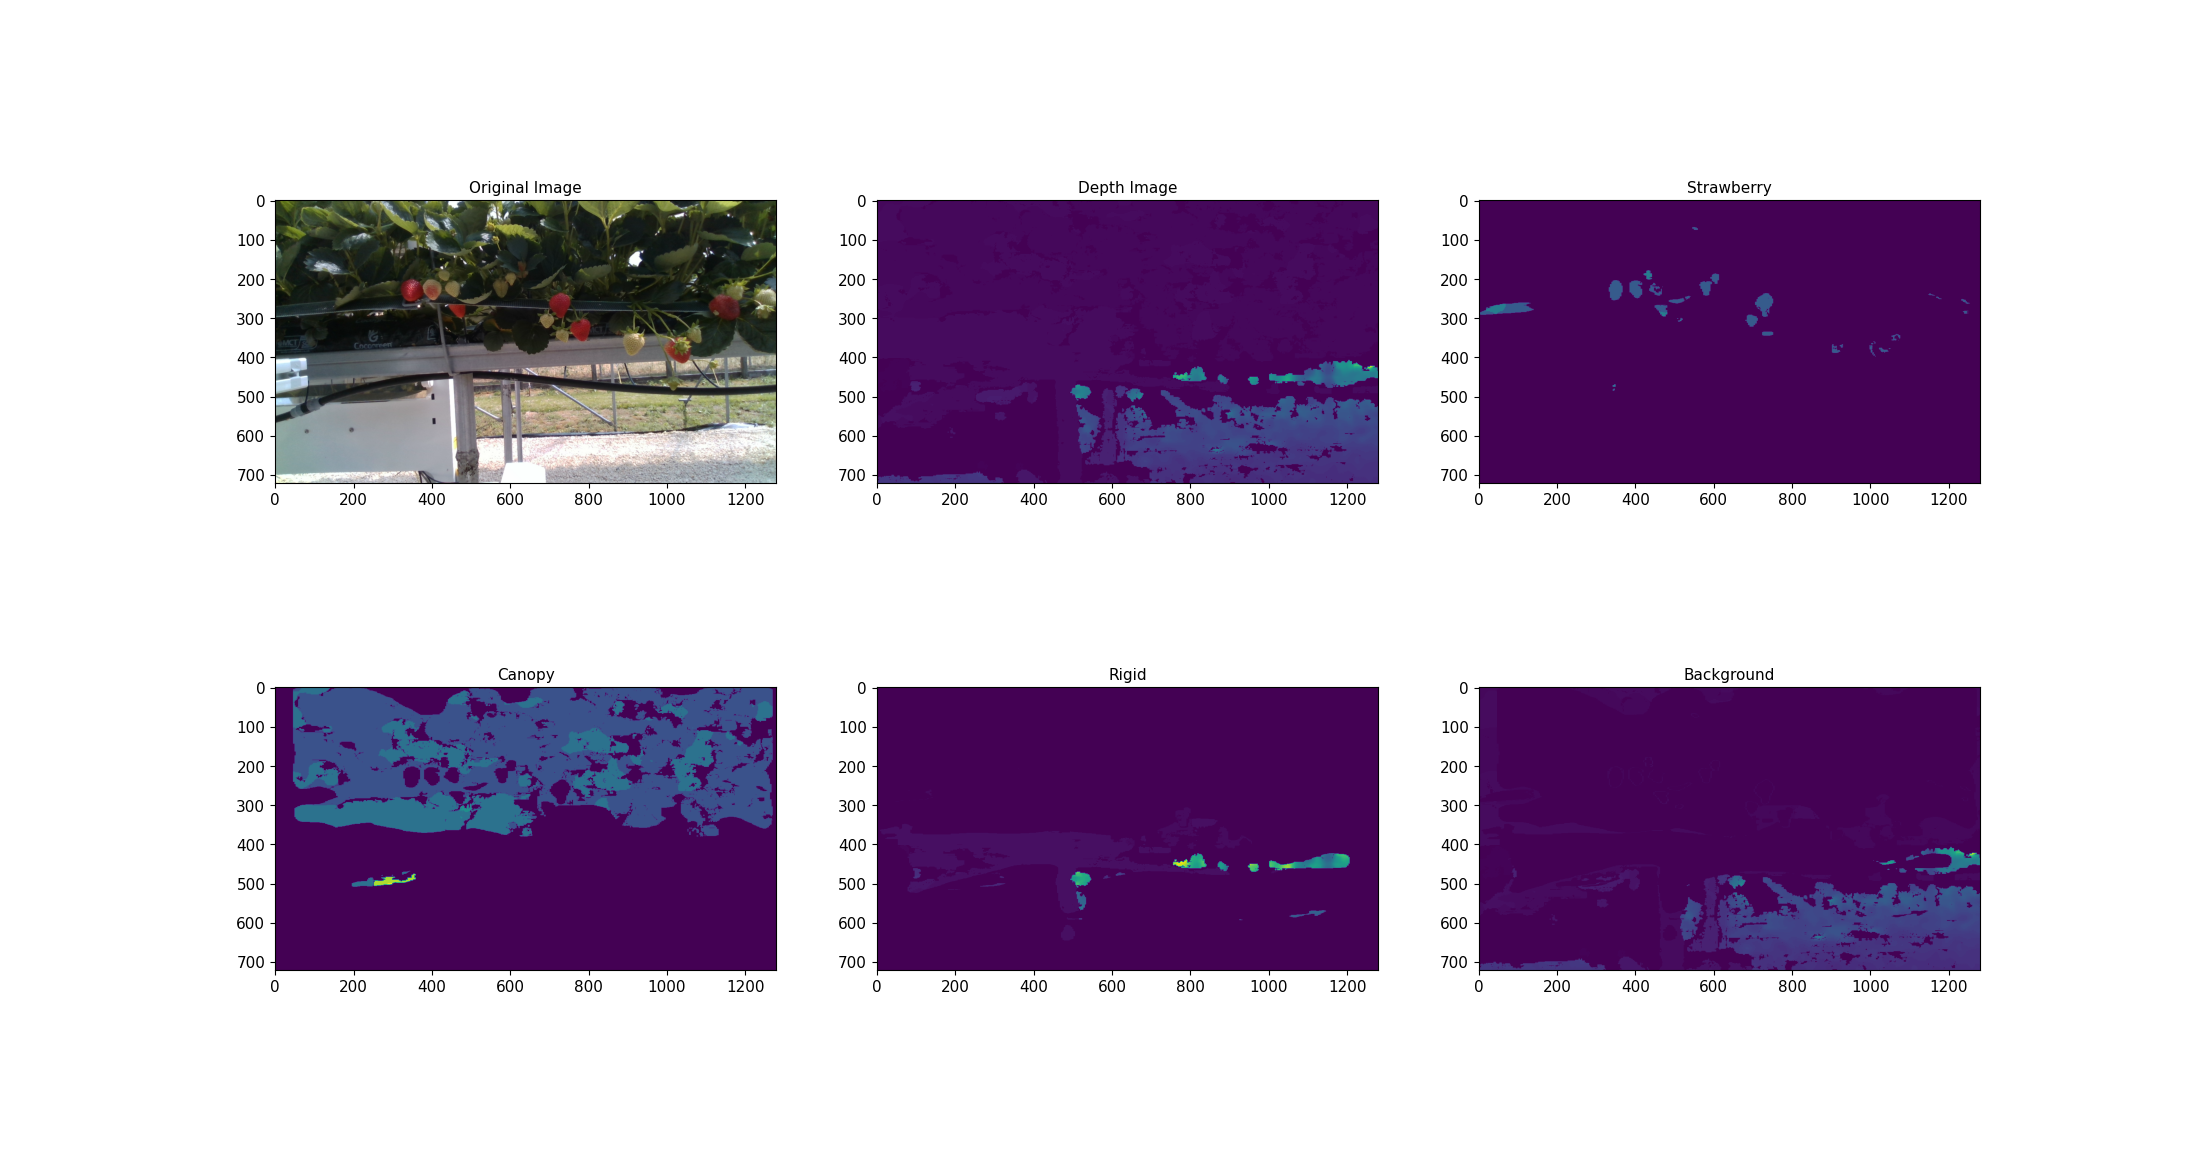
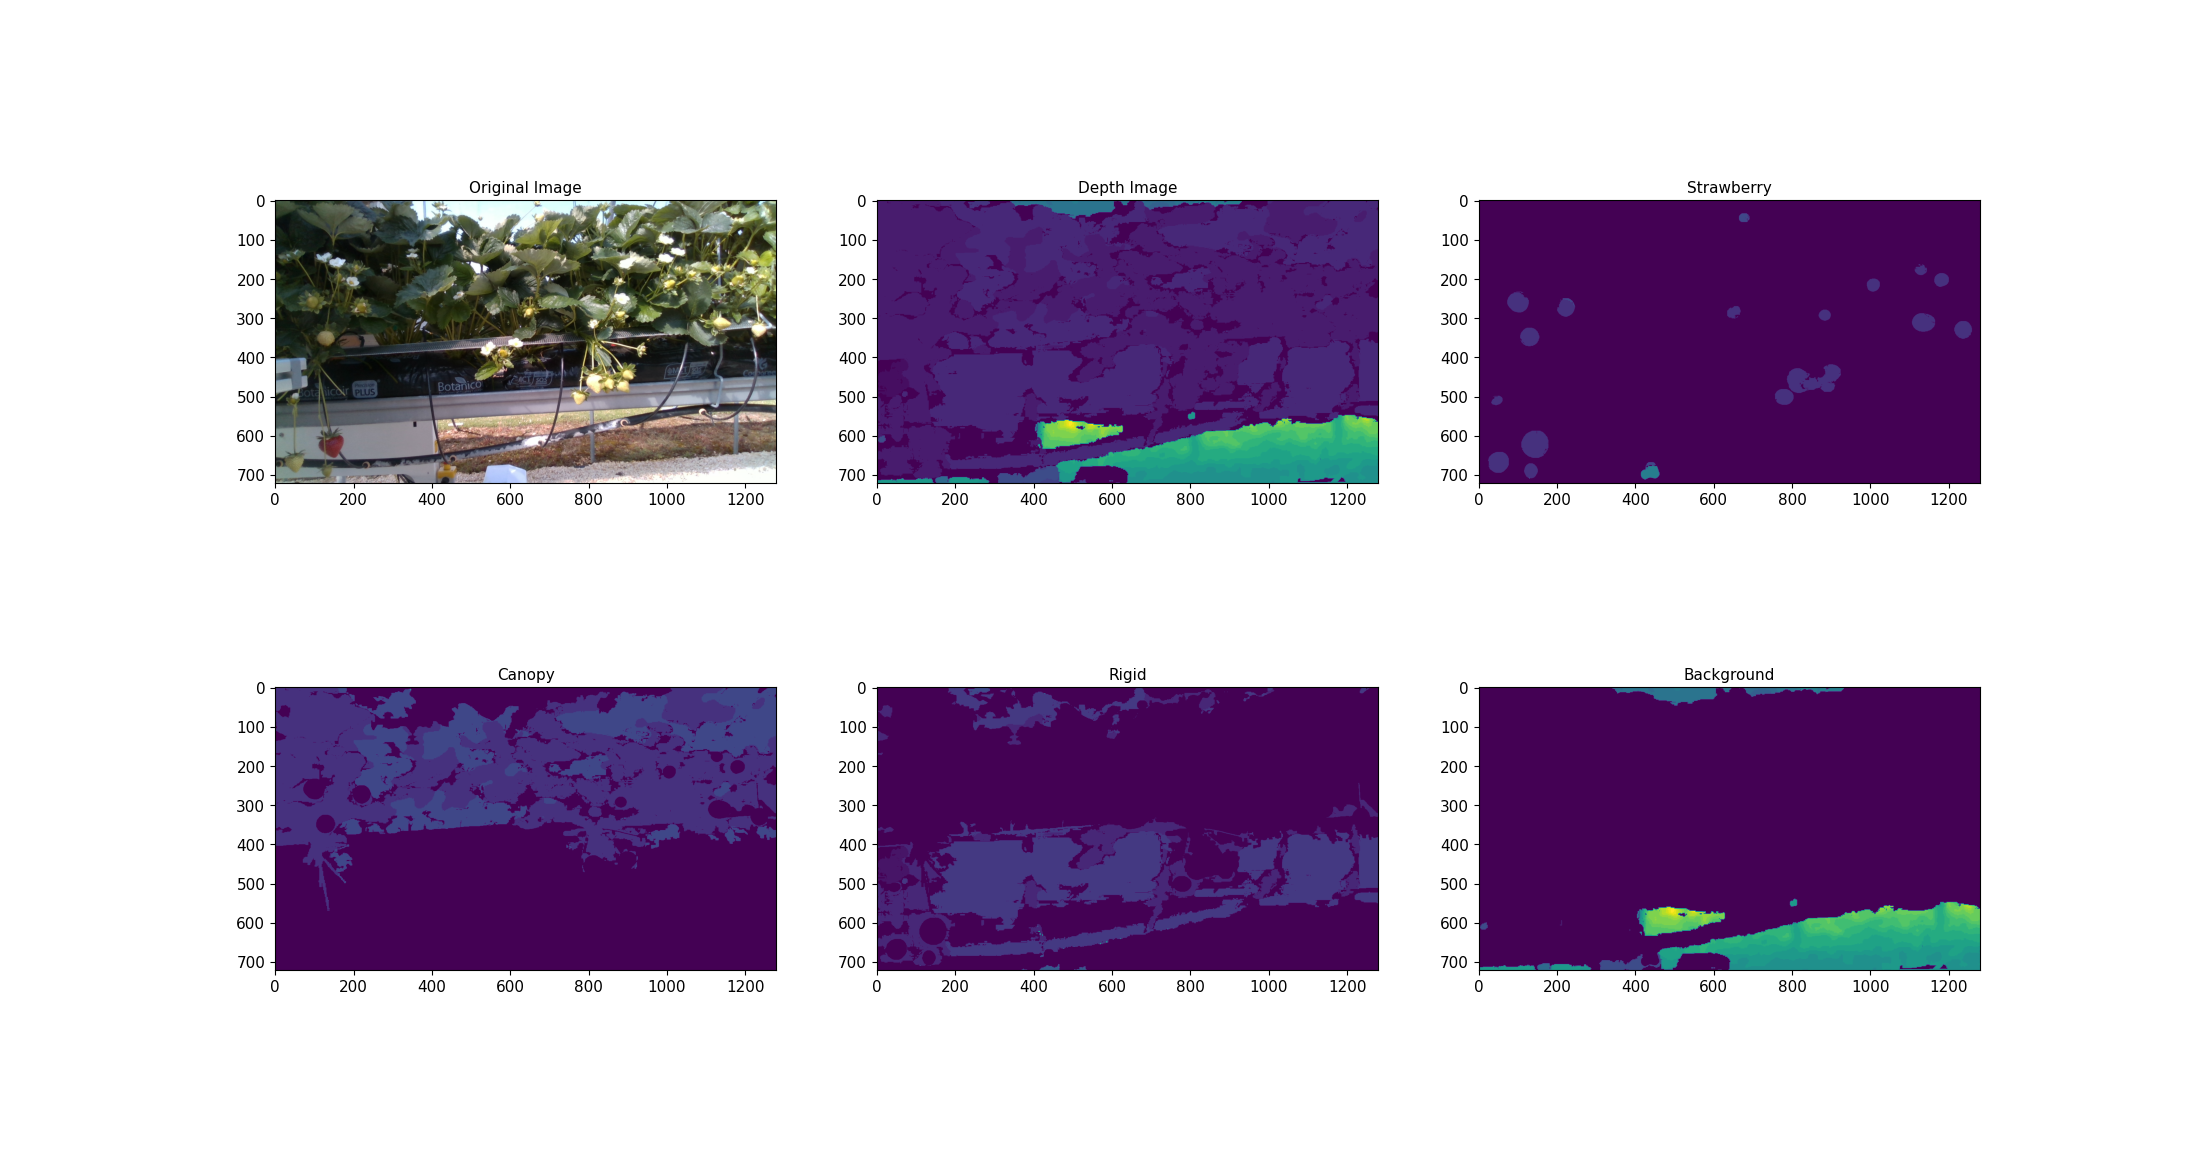
Add files via upload
update:
strawberry mask: the only mask predicted by model
background mask: calculated from depth image
canopy mask: green seeking from hsv
rigid mask: left over regions

file updates:
output_figure.png
metadata.pkl, as num of classes changed
fp_ss_model.pth for strawberry only

diff --git a/masks_predictor.py b/masks_predictor.py
@@ -2,7 +2,6 @@
 Started by: Usman Zahidi (uz) {16/02/22}
 
 """
-
 #general imports
 import os, sys, numpy as np, cv2,pickle, logging
 from enum                        import Enum,unique
@@ -20,15 +19,17 @@ from fastpick_visualizer         import FastPickVisualizer,ColorMode
 logging.basicConfig(level=logging.INFO, format='%(levelname)s: %(message)s')
 
 
+from scipy import ndimage
+
+
 class MasksPredictor:
 
-    def __init__(self, model_file,config_file,num_classes=3, scale=1.0, instance_mode=ColorMode.SEGMENTATION):
+    def __init__(self, model_file,config_file,num_classes=1, scale=1.0, instance_mode=ColorMode.SEGMENTATION):
 
         self.instance_mode=instance_mode
         self.scale=scale
         self.metadata=self.get_metadata()
-
-        cfg=self.init_config(model_file, config_file, num_classes)
+        cfg = self.init_config(model_file, config_file, num_classes)
 
         try:
             self.predictor=DefaultPredictor(cfg)
@@ -37,8 +38,7 @@ class MasksPredictor:
             logging.error(message)
             sys.exit(1)
 
-    def init_config(self, model_file, config_file, num_classes=3):
-
+    def init_config(self, model_file, config_file, num_classes=1):
         cfg = get_cfg()
         try:
             cfg.merge_from_file(model_zoo.get_config_file(config_file))
@@ -48,7 +48,7 @@ class MasksPredictor:
             sys.exit(1)
 
         cfg.MODEL.WEIGHTS = os.path.join(model_file)
-        cfg.MODEL.ROI_HEADS.NUM_CLASSES = num_classes  # 1.strawberry,2.canopy, 3.rigid
+        cfg.MODEL.ROI_HEADS.NUM_CLASSES = num_classes  # 1.strawberry (only strawberry coming from model)
         return cfg
 
     def get_metadata(self):
@@ -62,29 +62,17 @@ class MasksPredictor:
             logging.error(message)
             sys.exit(1)
 
-
         data = pickle.load(file)
         file.close()
         return data
 
     def get_predictions(self,rgbd_image,class_list):
 
-        # models trained for downsampled images, we first downsample them then predict masks and upsample binary mask
-
         if (bool(class_list)==False):
             logging.error('class list empty')
             sys.exit(1)
 
-        image_dims=rgbd_image.shape
-        up_dims = [int(image_dims[0]), int(image_dims[1])]
-        if (up_dims[1] != 1280 or up_dims[0] != 720):
-            message='Image resolution not supported by the model, try (1280x720)'
-            logging.error(message)
-            sys.exit(1)
-        down_dims = [int(image_dims[0]/2),int(image_dims[1]/2)]
-
         depth_image = rgbd_image[:, :, 3]
-        rgbd_image=self.downsample_image(rgbd_image,down_dims)
         rgb_image=rgbd_image[:, :, :3]
 
         outputs = self.predictor(rgb_image)
@@ -95,72 +83,93 @@ class MasksPredictor:
                        instance_mode=self.instance_mode
                        )
         predictions = v.draw_instance_predictions(outputs["instances"].to("cpu"))
-        pred_masks = predictions.get_image()[:, :, ::-1]
-        return self.get_masks(pred_masks, depth_image,class_list, up_dims)
+        berry_mask = predictions.get_image()[:, :, ::-1]
+        temp_mask = np.bitwise_and(berry_mask[:,:,0]==255,berry_mask[:,:,1]==255)
+        berry_mask =np.bitwise_and(temp_mask==1,berry_mask[:,:,2]==0)
+        not_berry=np.bitwise_not(berry_mask)
+
+        canopy_mask=self.get_canopy(rgb_image)
+        canopy_mask = self.smooth_seg(canopy_mask,ClassNames.CANOPY)
+        canopy_mask =np.bitwise_and(canopy_mask,not_berry)
+        bg_mask = self.get_background(depth_image)
+        bg_mask = self.smooth_seg(bg_mask,ClassNames.BACKGROUND)
 
 
-    def get_masks(self,fg_masks, depth_image, class_list, up_dims):
+        temp_mask=np.bitwise_and(canopy_mask,bg_mask)
+        temp_mask = np.bitwise_not(temp_mask)
+        bg_mask = np.bitwise_and(temp_mask, bg_mask)
+        bg_mask = np.bitwise_and(bg_mask, not_berry)
+
+        rigid_mask=np.bitwise_not(np.bitwise_or(canopy_mask,bg_mask))
+        rigid_mask = np.bitwise_and(rigid_mask, not_berry)
+
+        all_mask=np.bitwise_or(rigid_mask, bg_mask)
+        all_mask = np.bitwise_or(all_mask, berry_mask)
+        all_mask = np.bitwise_or(all_mask, canopy_mask)
+        unseg_mask=np.bitwise_not(all_mask)
+        bg_mask = np.bitwise_or(unseg_mask, bg_mask)
+        fg_masks = (np.dstack((berry_mask, canopy_mask, rigid_mask,bg_mask)) * 1)
+        return self.get_masks(fg_masks, depth_image,class_list)
+
+    def get_background(self,depth_image):
+
+        depth_zero = (depth_image == 0)*1
+        depth_zero = depth_zero * np.amax(depth_image)
+        depth_image = depth_image + depth_zero
+        bg_mask = depth_image > 5
+        return bg_mask
+
+
+
+
+    def get_canopy(self,rgb_image):
+
+        I = np.asarray(cv2.cvtColor(rgb_image, cv2.COLOR_RGB2HSV))
+        red_range   = [40,122]
+        green_range = [21,223]
+        blue_range  = [0,223]
+
+        canopy_mask=(I[:,:, 0] >= red_range[0] ) & (I[:,:, 0] <= red_range[1]) & \
+        (I[:,:, 1] >= green_range[0] ) & (I[:,:, 1] <= green_range[1]) & \
+        (I[:,:, 2] >= blue_range[0] ) & (I[:,:, 2] <= blue_range[1])
+
+
+        return canopy_mask
+
+    def smooth_seg(self,input_mask,class_name):
+        h, w = input_mask.shape[:2]
+        flood_mask = np.zeros((h + 2, w + 2), np.uint8)
+
+        input_mask=input_mask*255
+        mask=input_mask.astype('uint8')
+        kernel = np.ones((5, 5), np.uint8)
+        mask = cv2.erode(mask, kernel, iterations=1)
+        mask = cv2.dilate(mask, kernel, iterations=1)
+        if class_name==ClassNames.CANOPY:
+            cv2.floodFill(mask, flood_mask, (0, 0), 255)
+            flood_mask=flood_mask[:-2,:-2]
+        else:
+            flood_mask=mask
+        flood_mask=ndimage.binary_fill_holes(flood_mask,structure=np.ones((5,5)))
+        return flood_mask
+
+    def get_masks(self,fg_masks, depth_image, class_list):
 
         # input three foreground class' masks and calculate leftover as background mask
         # then output requested depth masks as per class_list order
 
-        # fetch yellow mask (Strawberry)
-        yellow = np.bitwise_and(fg_masks[:, :, 1] == 255, fg_masks[:, :, 2] == 255)
-        yellow = np.bitwise_and(yellow == True, fg_masks[:, :, 0] == 0)
-
-        #fetch green mask   (Canopy)
-        green = np.bitwise_and(fg_masks[:, :, 0] == 0, fg_masks[:, :, 2] == 0)
-        green = np.bitwise_and(green == True, fg_masks[:, :, 1] == 255)
-
-        # fetch red mask (Rigid Struct.)
-        red = np.bitwise_and(fg_masks[:, :, 0] == 0, fg_masks[:, :, 1] == 0)
-        red = np.bitwise_and(red == True, fg_masks[:, :, 2] == 255)
-
-        # create blue (Background)
-        mask = np.bitwise_or(red, green)
-        mask = np.bitwise_or(mask, yellow)
-        blue = np.bitwise_not(mask)
-
-
-        img = np.zeros(fg_masks.shape)
-        img[:, :, 0] = 255
-        blue_image = (np.dstack((blue, blue, blue)) * 1)
-        img = np.multiply(img, blue_image)
-
-        mask_img          = fg_masks
-        mask_img[:, :, 0] = mask
-        mask_img[:, :, 1] = mask
-        mask_img[:, :, 2] = mask
-
-        mask_img[:, :, 0] = img[:, :, 0]
-        mask_img[:, :, 1] = img[:, :, 1]
-        mask_img[:, :, 2] = img[:, :, 2]
-
-        #upsample masks
-        yellow = self.upsample_masks(yellow, up_dims)
-        green  = self.upsample_masks(green, up_dims)
-        red    = self.upsample_masks(red, up_dims)
-        blue   = self.upsample_masks(blue, up_dims)
 
         depth_masks=list()
         for classes in class_list:
             if   classes==ClassNames.STRAWBERRY:
-                depth_masks.append(yellow*depth_image)
+                depth_masks.append(fg_masks[:,:,0]*depth_image)
             elif classes == ClassNames.CANOPY:
-                depth_masks.append(green*depth_image)
+                depth_masks.append(fg_masks[:,:,1]*depth_image)
             elif classes == ClassNames.RIGID_STRUCT:
-                depth_masks.append(red*depth_image)
+                depth_masks.append(fg_masks[:,:,2]*depth_image)
             elif classes == ClassNames.BACKGROUND:
-                depth_masks.append(blue*depth_image)
+                depth_masks.append(fg_masks[:,:,3]*depth_image)
         return (np.dstack(depth_masks))
-
-
-    def downsample_image(self,rgbd_image,dims):
-        return cv2.resize(rgbd_image, dsize=(dims[0],dims[1]), interpolation=cv2.INTER_LINEAR)
-
-
-    def upsample_masks(self,binary_mask,dims):
-        return resize(binary_mask, (dims[0], dims[1]), order=0, preserve_range=True)
 
 @unique
 class ClassNames(Enum):

diff --git a/fastpick_visualizer.py b/fastpick_visualizer.py
@@ -104,8 +104,9 @@ class FastPickVisualizer(Visualizer):
             masks = [masks[idx] for idx in sorted_idxs] if masks is not None else None
             keypoints = keypoints[sorted_idxs] if keypoints is not None else None
 
-            # uz: override colors, remove boxes and labels
-            assigned_colors = [[1.0, 0.0, 0.0], [0.0, 1.0, 0.0],[1.0, 1.0, 0.0]]
+            # uz: override colors, remove boxes and labels, same color for both class (ripe and unripe)
+            assigned_colors = [[0.0, 1.0, 1.0], [0.0, 1.0, 1.0]]
+
             boxes           = None
             labels          = None
 
@@ -113,12 +114,7 @@ class FastPickVisualizer(Visualizer):
 
             #uz: assign colors according to label text from metadata
 
-            if "rigid" in org_labels[i]:
-                color = assigned_colors[0]
-            elif "canopy" in org_labels[i]:
-                color = assigned_colors[1]
-            elif "strawberry" in org_labels[i]:
-                color = assigned_colors[2]
+            color = assigned_colors[0]
             if boxes is not None:
                 self.draw_box(boxes[i], edge_color=color)
 
